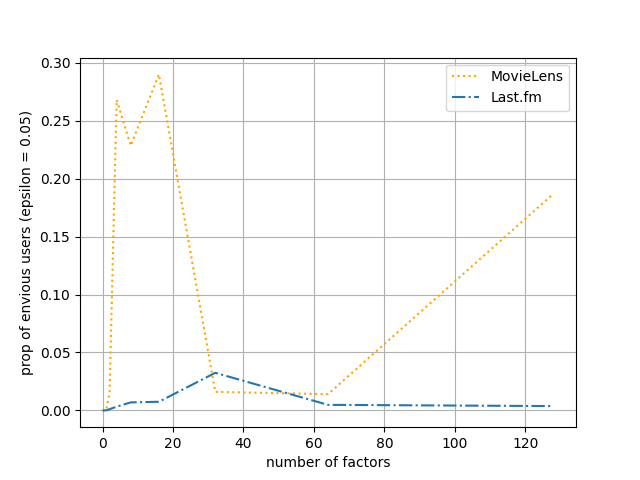
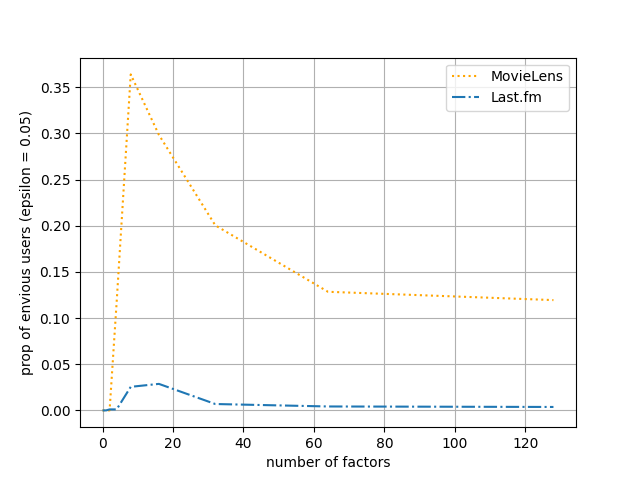
WORKING VERSION FOR FM AND MOVIE USING ONLY ALS THO: nog LMF and FunkySVD

diff --git a/vN/src/lib/recommender.py b/vN/src/lib/recommender.py
@@ -72,7 +72,7 @@ def train_SVD_model(hyperparameter_configurations, batch, min_rating, max_rating
 
     return results
 
-def train_ALS_model(hyperparameter_configurations, batch, train, validation, performance_metric="ndcg"):
+def train_ALS_model(hyperparameter_configurations, batch, train, validation, performance_metric):
     results = {}
     
     print("Processing batch {}...".format((batch + 1)))
@@ -95,7 +95,7 @@ def train_ALS_model(hyperparameter_configurations, batch, train, validation, per
         else:
             ndcg = AUC_at_k(model, train, validation, K=constant.PERFORMANCE_METRIC_VARS[performance_metric]["K"], show_progress=False)
         
-        print("Batch {}: {}@{}".format((batch + 1), performance_metric, constant.PERFORMANCE_METRIC_VARS["NDCG"]["K"]), ndcg)
+        print("Batch {}: {}@{}".format((batch + 1), performance_metric, constant.PERFORMANCE_METRIC_VARS[performance_metric]["K"]), ndcg)
 
         results[i] = {"latent_factor": params["latent_factor"], "result": {"ndcg": ndcg, "model": model, "params": params}} 
 
@@ -183,7 +183,7 @@ def create_recommendation_est_system(ground_truth, hyperparameter_configurations
             # Create and configure the process pool
             with mp.Pool(mp.cpu_count()) as pool:
                 # Prepare arguments
-                items = [(batch, i, train, validation) for i, batch in configurations_batches.items()]
+                items = [(batch, i, train, validation, constant.PERFORMANCE_METRIC) for i, batch in configurations_batches.items()]
                 # Execute tasks and process results in order
                 for result in tqdm(pool.istarmap(train_ALS_model, items), total=len(items)):
                     for train_result in result.values():
@@ -193,7 +193,7 @@ def create_recommendation_est_system(ground_truth, hyperparameter_configurations
             print("Generating recommender preference estimation models...SEQUENTIAL")
             print("Processing batch {}...".format(1))
 
-            result = train_ALS_model(list(hyperparameter_configurations.values()), 1, train, validation)
+            result = train_ALS_model(list(hyperparameter_configurations.values()), 1, train, validation, constant.PERFORMANCE_METRIC)
             for train_result in result.values():
                 models[train_result["latent_factor"]][train_result["result"]["ndcg"]] = train_result["result"] 
                 

diff --git a/vN/src/user_artist.py b/vN/src/user_artist.py
@@ -34,7 +34,7 @@ from lib import helper
 from lib import io
 import constant
 
-def train_model(R_coo, configurations, seed, built_in_LMF, performance_metric="ndcg"):
+def train_model(R_coo, configurations, seed, built_in_LMF, performance_metric):
     """
     For a random seed trains a model on a sparse matrix for all given hyperparameter combinations.
 
@@ -82,7 +82,7 @@ def train_model(R_coo, configurations, seed, built_in_LMF, performance_metric="n
             ndcg = AUC_at_k(model, train, validation, K=constant.PERFORMANCE_METRIC_VARS[performance_metric]["K"], show_progress=False)
             # ndcg = AUC_at_k(model, train.multiply(hyperparameters["alpha"] if built_in_LMF else 1), validation.multiply(hyperparameters["alpha"] if built_in_LMF else 1), K=constant.PERFORMANCE_METRIC_VARS["NDCG"]["K"], show_progress=False)
         
-        print("Seed {}: {}@{}".format((seed + 1), performance_metric, constant.PERFORMANCE_METRIC_VARS["NDCG"]["K"]), ndcg)
+        print("Seed {}: {}@{}".format((seed + 1), performance_metric, constant.PERFORMANCE_METRIC_VARS[performance_metric]["K"]), ndcg)
 
         # When current model outperforms previous one update tracking states
         if ndcg > ndcg_base:
@@ -194,7 +194,7 @@ if __name__ == "__main__":
         print("Training for", num_random_seeds, "models...MULTIPROCESSING")
 
         pool = mp.Pool(mp.cpu_count())
-        results = pool.starmap(train_model, [(R_coo, configurations, seed, False) for seed in range(num_random_seeds)])
+        results = pool.starmap(train_model, [(R_coo, configurations, seed, False, constant.PERFORMANCE_METRIC) for seed in range(num_random_seeds)])
         pool.close()
 
         # Model selection by test set performance    

diff --git a/vN/src/main.py b/vN/src/main.py
@@ -23,7 +23,6 @@ if __name__ == "__main__":
     # To save the experiment results
     experiment_results = {k: {} for k in constant.EXPERIMENT_RUN_OPTIONS.keys() if k not in {"all"}}
 
-
     print("**Please specify which experiments to run**")
     experiment_choice = pyip.inputMenu(list(constant.EXPERIMENT_RUN_OPTIONS.keys()))
 
@@ -56,7 +55,11 @@ if __name__ == "__main__":
     
     print("**Which algorithm would you like the recommender system to use to estimate user preferences?**")
     ALGORITHM_CHOICE = pyip.inputMenu(constant.ALGORITHM)
-    
+
+    print("**With which <performance metric>@K would you like the recommender system to be trained, validated and selected?***")
+    constant.PERFORMANCE_METRIC = pyip.inputMenu(list(constant.PERFORMANCE_METRIC_VARS.keys()))
+    print("{}@{}".format(constant.PERFORMANCE_METRIC, constant.PERFORMANCE_METRIC_VARS[constant.PERFORMANCE_METRIC]["K"]))
+
     # To save figures/plots
     for data_set in data_sets.values():
         folder1 = constant.RESULTS_FOLDER + data_set["name"]

diff --git a/vN/src/user_movie.py b/vN/src/user_movie.py
@@ -212,7 +212,7 @@ if __name__ == "__main__":
         print("Training for", num_random_seeds, "models...MULTIPROCESSING")
 
         pool = mp.Pool(mp.cpu_count())
-        results = pool.starmap(train_model, [(R_coo, configurations, seed) for seed in range(num_random_seeds)])
+        results = pool.starmap(train_model, [(R_coo, configurations, seed, constant.PERFORMANCE_METRIC) for seed in range(num_random_seeds)])
         pool.close()
 
         # Model selection by test set performance    

diff --git a/vN/src/constant.py b/vN/src/constant.py
@@ -14,6 +14,7 @@ ALGORITHM = ["SVD", "ALS"]
 PERFORMANCE_METRIC_VARS = {"ndcg": {"K": 40},
                         "precision": {"K": 40},
                         "auc": {"K": 40}}
+PERFORMANCE_METRIC = None
 
 # Folder to save time performances
 TIMING_FOLDER = "results/execution times/"
